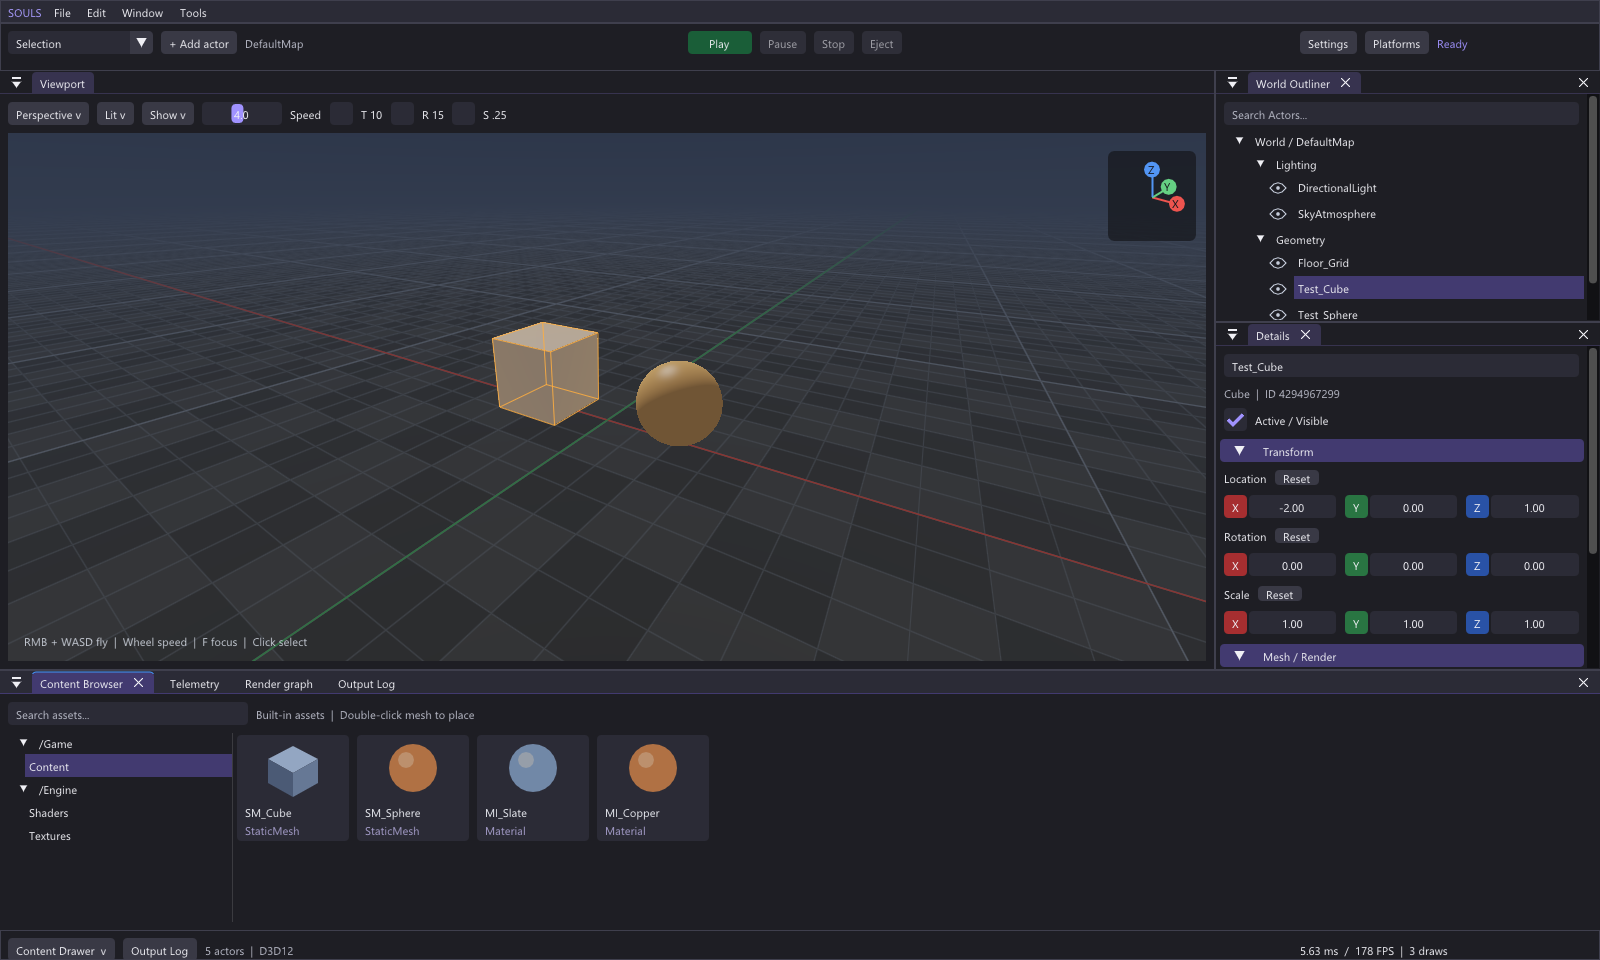
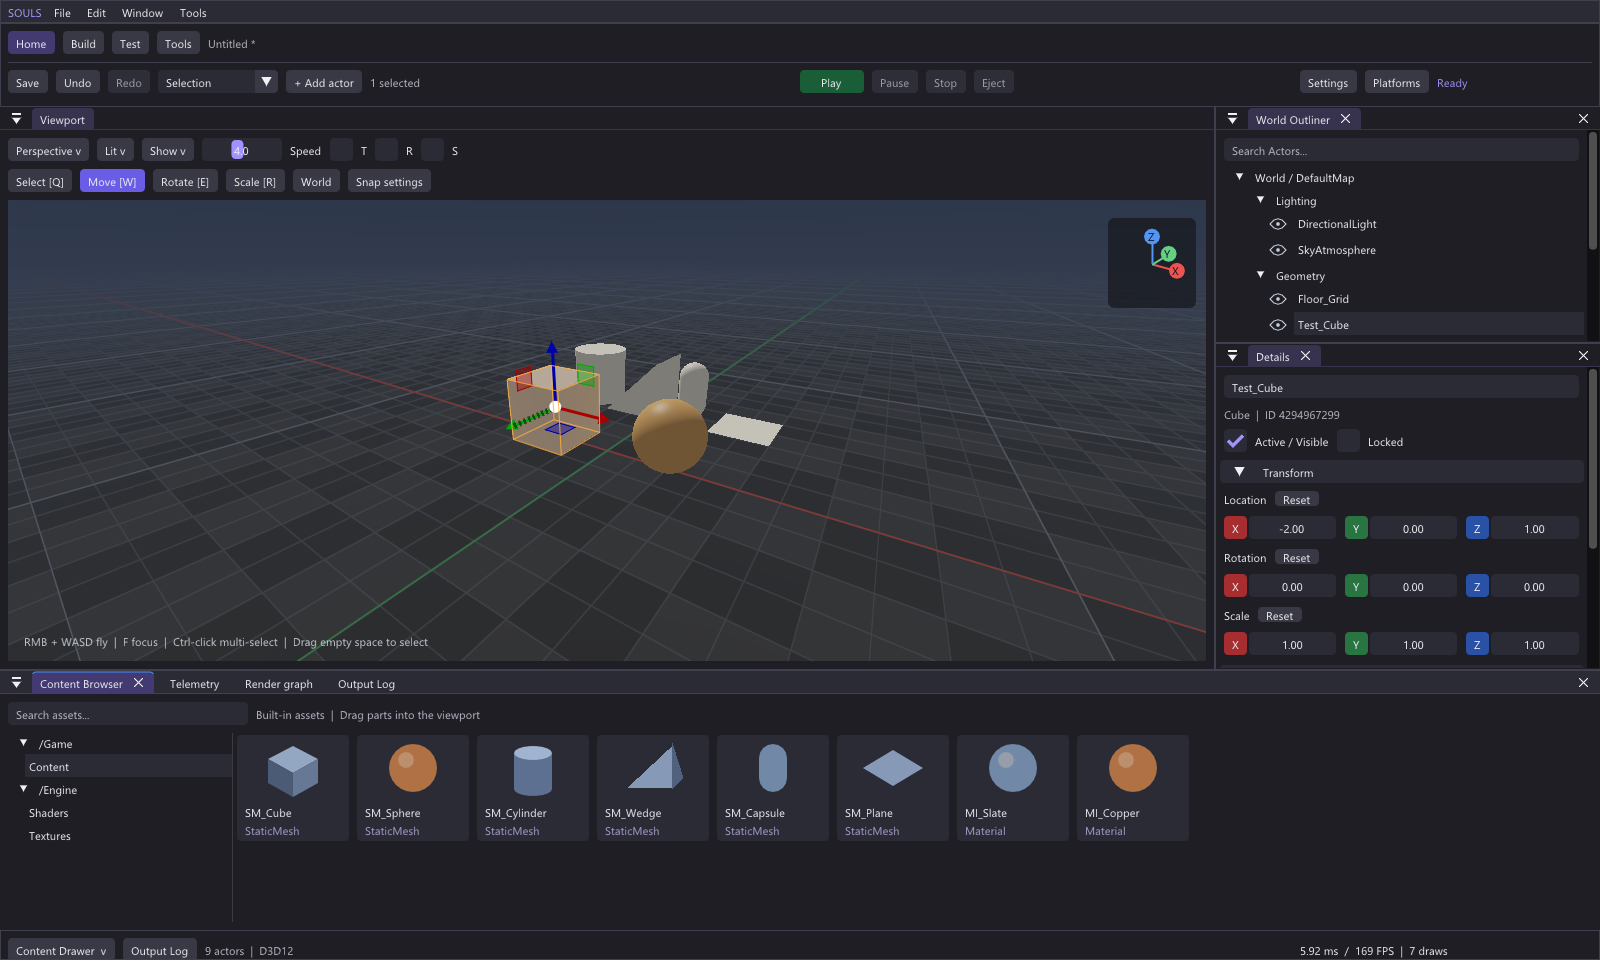
Document world-building controls, architecture and verification
Describe the editor document boundary, logical groups, TRS rules, level/recovery workflow and keyboard controls. Refresh the README with a real six-part GPU capture and record Windows sanitizer and Linux Vulkan CI evidence, alongside the remaining human device checks.

diff --git a/tests/GizmoGestureTests.cpp b/tests/GizmoGestureTests.cpp
@@ -74,8 +74,11 @@ int main() {
         frame(operation, {hit.x + 32, hit.y + 20}, false);
         check(changed, "drag modifies the transform");
         check(!ImGuizmo::IsUsing(), "release finishes the gesture");
+        matrix = Mat4::identity();
+        frame(operation, hit, false);
         frame(operation, hit, false);
         frame(operation, hit, true);
+        check(ImGuizmo::IsUsing(), "press starts the gesture that will be cancelled");
         // A cancelled document gesture must also release the widget's internal drag.
         ImGuizmo::Enable(false);
         check(!ImGuizmo::IsUsing(), "disabling the widget cancels its active gesture");

diff --git a/DESIGN.md b/DESIGN.md
@@ -1,23 +1,29 @@
 # Editor design contract
 
 The editor follows UE5 workspace conventions. Menus and a
-compact mode/play ribbon sit above the main dock. The live 3D viewport owns
+Home/Build/Test/Tools ribbon sit above the main dock. The live 3D viewport owns
 roughly three quarters of the upper workspace. World Outliner and Details
 stack on the right. The collapsible Content Browser and developer tools share
 a bottom dock; the status strip exposes the drawer, log, frame time and draws.
 
 Canvas #1E1E24; panels #2B2B36; raised controls #393945; accent #6C5CE7;
 text #F0F0F5; secondary text #B9BBC8; green simulation controls. XYZ inputs and
-orientation axes use red, green and blue. Spacing follows an 8px grid; control
+orientation axes use red, green and blue. Component headers stay neutral; violet
+marks active tools and selection. Spacing follows an 8px grid; control
 corners are 4px. Segoe UI on Windows and DejaVu/Liberation Sans on Linux,
 15px base with dynamic DPI scaling. Familiar dense desktop controls and
 keyboard navigation take priority over ornamental chrome.
 
-Selection is shared by viewport picking, Outliner and Details. Transform,
+Selection is shared by viewport picking, Outliner and Details through EditorDocument.
+The Build palette and asset tiles share a typed part payload; the viewport previews
+placement before committing an actor. Gizmos and Details preview from the gesture
+start and commit one undo operation on release. Transform,
 visibility, color and light values edit the live Flecs world. Play snapshots
 the edit world; Stop restores it. Eject enables camera navigation and Details
 editing during simulation. The drawer presents the built-in asset catalog;
-mesh assets can place actors. Developer tools contain measured telemetry,
+all six mesh assets can place actors. Group folders and locks remain visible in
+inspection. File actions protect dirty levels with Save/Discard/Cancel; native
+dialogs choose paths, and recovery is offered on the next launch. Developer tools contain measured telemetry,
 a movable render graph and a working command console. Unavailable driver
 budgets are labeled unavailable. The initial budget remains 60 Hz / 16.67ms.
 

diff --git a/docs/adr/0001-editor-document.md b/docs/adr/0001-editor-document.md
@@ -1,0 +1,31 @@
+# Editor document owns editing state
+
+Status: accepted, 9 October 2026.
+
+The workspace previously changed Flecs actors directly and maintained a separate
+simulation snapshot. Adding undo, persistence and multi-selection to each widget
+would spread identity and restore rules across unrelated UI paths.
+
+EditorDocument borrows the existing Scene object and owns stable ActorIds,
+selection, dirty revisions, 64 fixed-capacity history operations and the simulation
+snapshot. Viewport and Details adapters begin an edit, preview from gesture-start
+values and commit once. Structural commands use the same document boundary.
+Rendering still reads Scene and generation-checked handles; it does not depend on
+editor history or file dialogs.
+
+Snapshots keep actor identity and selection by ActorId. Restore preserves handles
+where possible and remaps recreated actors. Load parses and validates a candidate
+scene before replacing the borrowed Scene's contents. Saves write and flush a
+sibling temporary file before atomic replacement. Native file dialogs and callback
+lifetime stay in a separate SDL adapter. File I/O and structural edits run before
+GPU frame recording; previews use bounded storage without per-drag allocation.
+
+Groups are logical folders, not transform parents. Actor transforms remain TRS
+with world-space position and Euler degrees. Group gizmos rotate around a shared
+pivot; group scaling adjusts spacing and local scale without manufacturing shear.
+Headless document and transform tests cover these contracts, and a separate ImGui
+harness drives real ImGuizmo gestures with the engine's camera convention.
+
+This costs a bounded history allocation at document creation and limits editor
+levels to 256 actors. Larger scenes will need command payload history or chunked
+snapshots; the renderer's 4096-actor pool remains independent of that decision.

diff --git a/GLOSSARY.md b/GLOSSARY.md
@@ -1,0 +1,13 @@
+# Engine terminology
+
+| Term | Meaning |
+|---|---|
+| Actor | An editor-visible Flecs entity with transform and render/light metadata. |
+| EntityHandle | Generation-checked scene-pool reference, used by rendering and picking. |
+| ActorId | Persistent document identity, retained across undo and file round trips. |
+| Editor document | The borrowed scene plus selection, bounded history, file state and play snapshot. |
+| Edit transaction | Gesture-start snapshot, live previews, and one commit or cancellation. |
+| Group | Logical Flecs folder; members retain world-space TRS transforms. |
+| Recovery level | Periodic per-user snapshot, restored as an unsaved level. |
+| Simulation world | Temporary state that Stop replaces with the edit-world snapshot. |
+| Part | One of six built-in static primitive meshes. |

diff --git a/CONTRIBUTING.md b/CONTRIBUTING.md
@@ -14,6 +14,11 @@ synchronization, or a decision that would otherwise be easy to misread.
 - Preserve generation checks and retirement rules when changing resource pools,
   command tokens, frame arenas, or mapped GPU constants.
 - Keep UI code dependent on engine interfaces rather than native SDK objects.
+- Route editor mutations through EditorDocument. UI adapters own gesture state;
+  the document owns selection, stable IDs, history, persistence and simulation
+  snapshots. Keep transform/placement math independent of SDL and ImGui.
+- Keep groups as logical folders with world-space transforms. See
+  [the editor document decision](docs/adr/0001-editor-document.md).
 
 ## Validation
 
